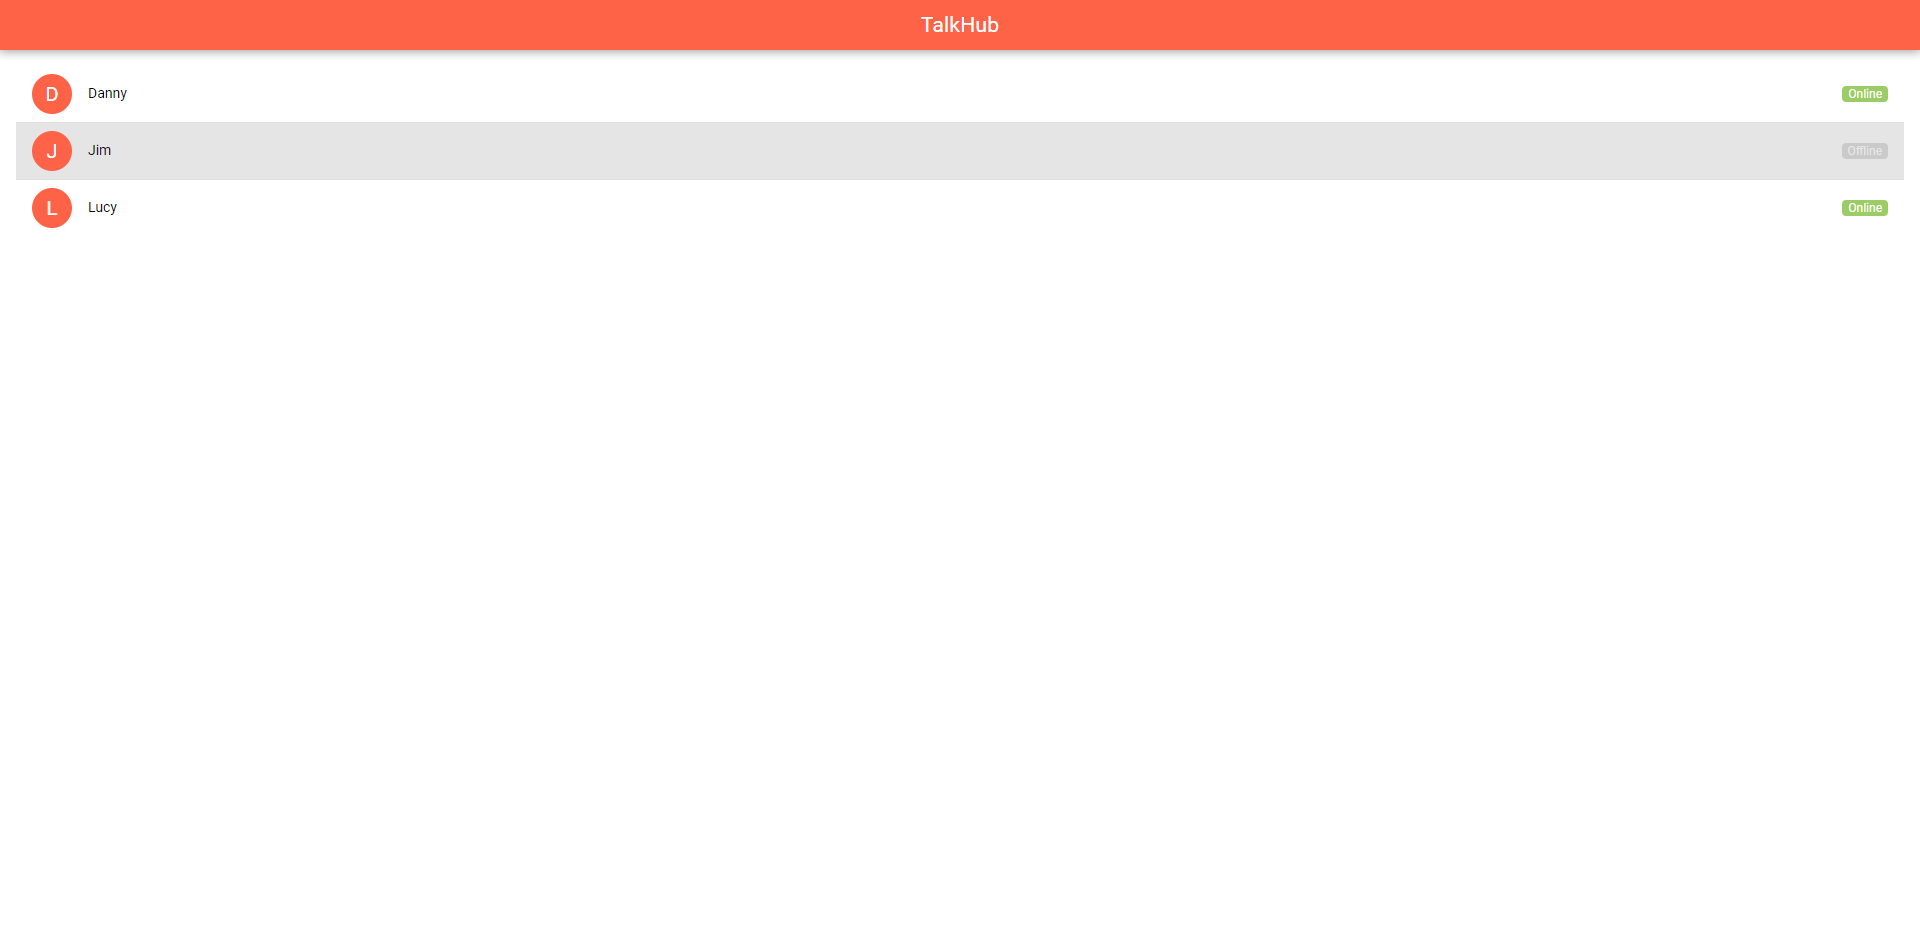
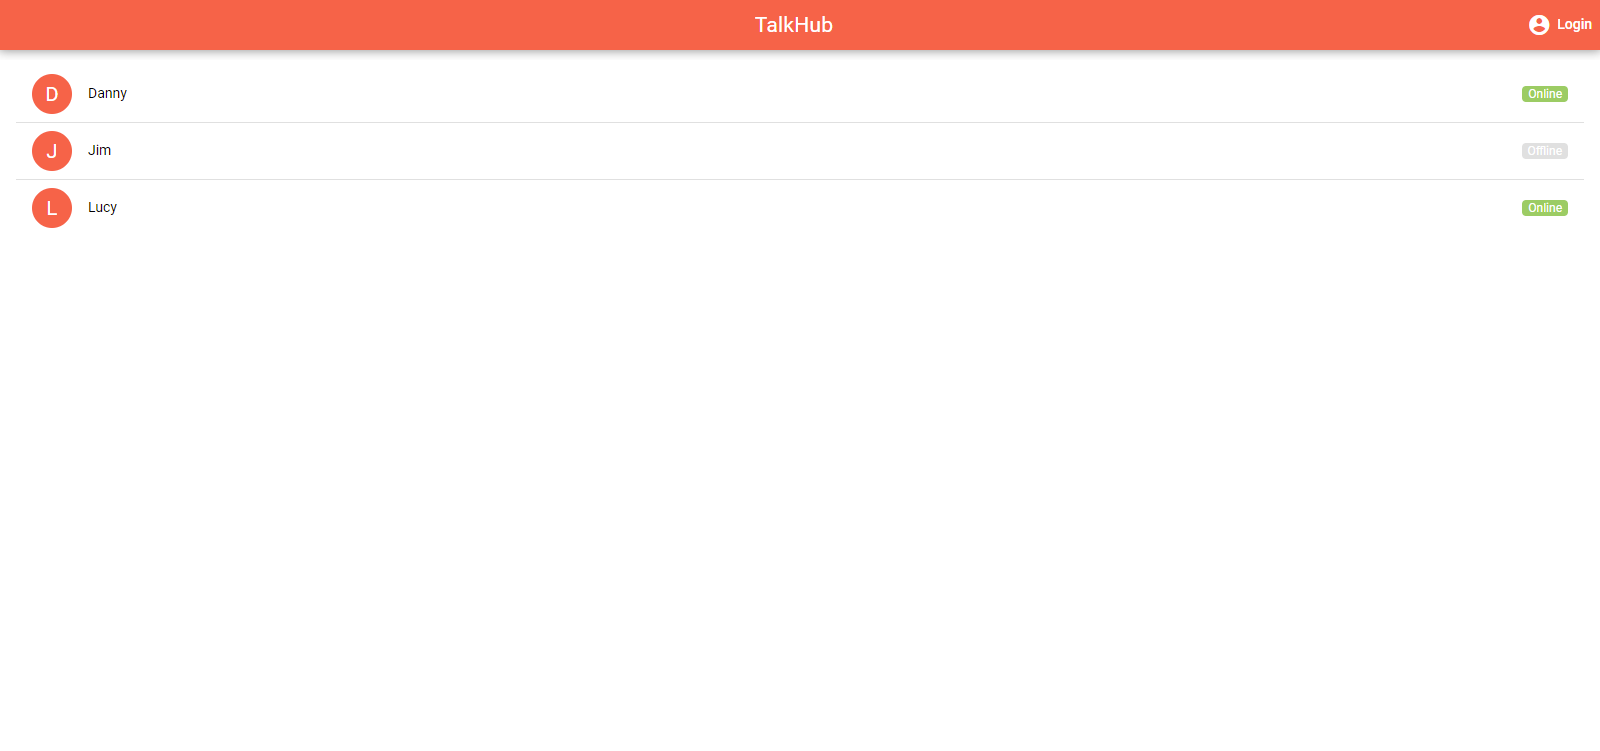
Chat Page

Changed region(s): [[0.0, 0.0, 1.0, 0.3063]]

diff --git a/src/pages/PageChat.vue b/src/pages/PageChat.vue
@@ -1,11 +1,70 @@
 <template>
-  <q-page class="flex">
-    <h5>Chat Page</h5>
+  <q-banner class="text-white bg-red text-center">
+      user is offline
+    </q-banner>
+  <q-page class="flex column">
+    <div class="q-pa-md column col justify-end">
+      <q-chat-message
+        v-for="message in messages"
+        :key="message.text"
+        :name="message.from"
+        :text="[message.text]"
+        :sent="message.from =='me'? true: false"
+      />
+    </div>
+    <q-footer elevated class="full-width">
+        <q-toolbar>
+          <q-form @submit="sendMessage" class="q-flex q-pa-sm">
+            <q-input v-model="newMessage" bg-color="white" class="full-width" rounded outlined label="Message" dense>
+            </q-input>
+            <q-btn round dense flat type="submit" color="white" icon="send" />
+
+          </q-form>
+        </q-toolbar>
+      </q-footer>
   </q-page>
 </template>
 
 <script>
-</script>
+import { ref } from 'vue'
 
+export default {
+  setup () {
+    const newMessage = ref('')
+    const messages = ref([
+      {
+        text: 'Hey Jim, How Are You?',
+        from: 'me'
+      },
+      {
+        text: 'Good thanks, Danny',
+        from: 'them'
+      },
+      {
+        text: '',
+        from: 'me'
+      }
+    ])
+
+    const sendMessage = () => {
+      console.log(newMessage.value)
+      messages.value.push({
+        text: newMessage.value,
+        from: 'me'
+      })
+    }
+
+    return {
+      messages,
+      sendMessage,
+      newMessage
+    }
+  }
+}
+</script>
 <style>
+.q-flex{
+  display: flex;
+  width: 100%;
+}
 </style>

diff --git a/src/layouts/MainLayout.vue b/src/layouts/MainLayout.vue
@@ -2,9 +2,28 @@
   <q-layout view="lHh Lpr lFf">
     <q-header elevated>
       <q-toolbar>
+        <q-btn
+          v-if="route.fullPath.includes('/chat')"
+          flat
+          to="/"
+          dense
+          icon="arrow_back"
+          label="Back"
+        />
+
         <q-toolbar-title class="absolute-center">
           {{ title }}
         </q-toolbar-title>
+
+        <q-btn
+          dense
+          flat
+          no-caps
+          to="/auth"
+          class="absolute-right q-pr-sm"
+          icon="account_circle"
+          label="Login"
+        />
       </q-toolbar>
     </q-header>
     <q-page-container>
@@ -20,16 +39,22 @@ export default {
   setup () {
     const route = useRoute()
     const title = ref('')
+    const page = ref(route)
     const updatePageTitle = () => {
       if (route.fullPath === '/') title.value = 'TalkHub'
       else if (route.fullPath === '/chat') title.value = 'Chat'
       else if (route.fullPath === '/auth') title.value = 'Auth'
     }
+    const handleBackBtn = () => {
+      page.value.go(-1)
+    }
     onMounted(updatePageTitle)
 
     watch(() => route.fullPath, updatePageTitle)
     return {
-      title
+      title,
+      route,
+      handleBackBtn
     }
   }
 }

diff --git a/README.md b/README.md
@@ -1,4 +1,8 @@
 # Quasar App (quasar-project)
 
-## UI | HOME 
+## UI | Home Page
+
 ![Alt text](public/image.png)
+
+## UI | Chat
+![Alt text](public/image1.png)
